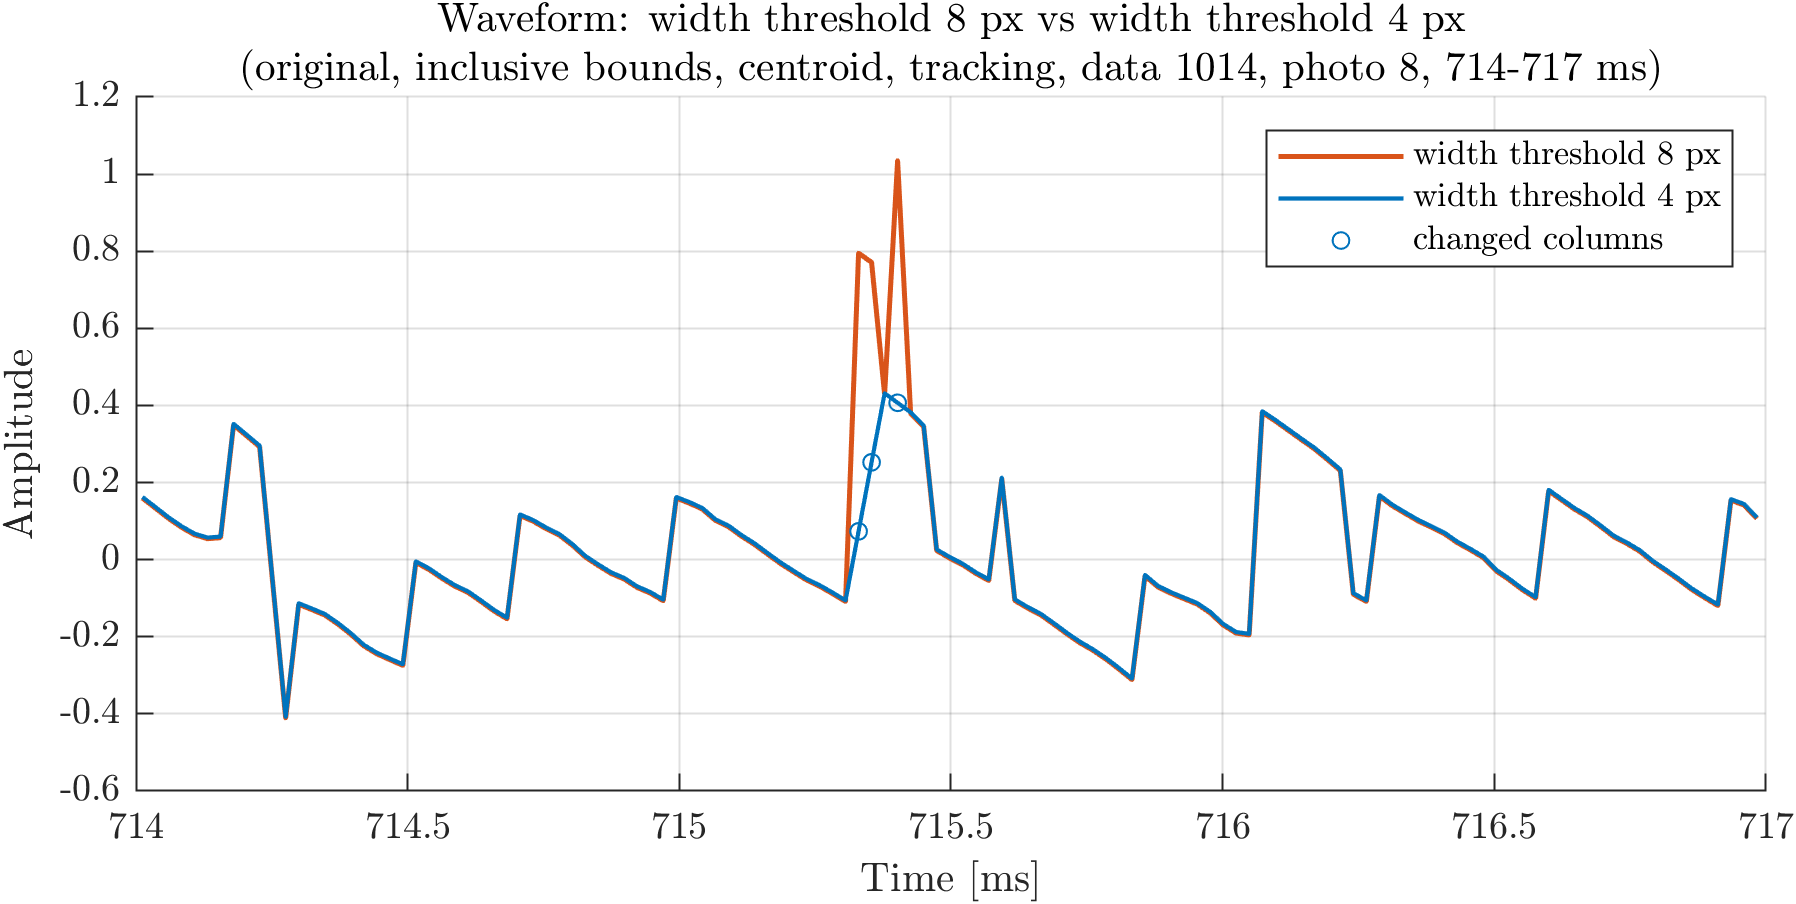
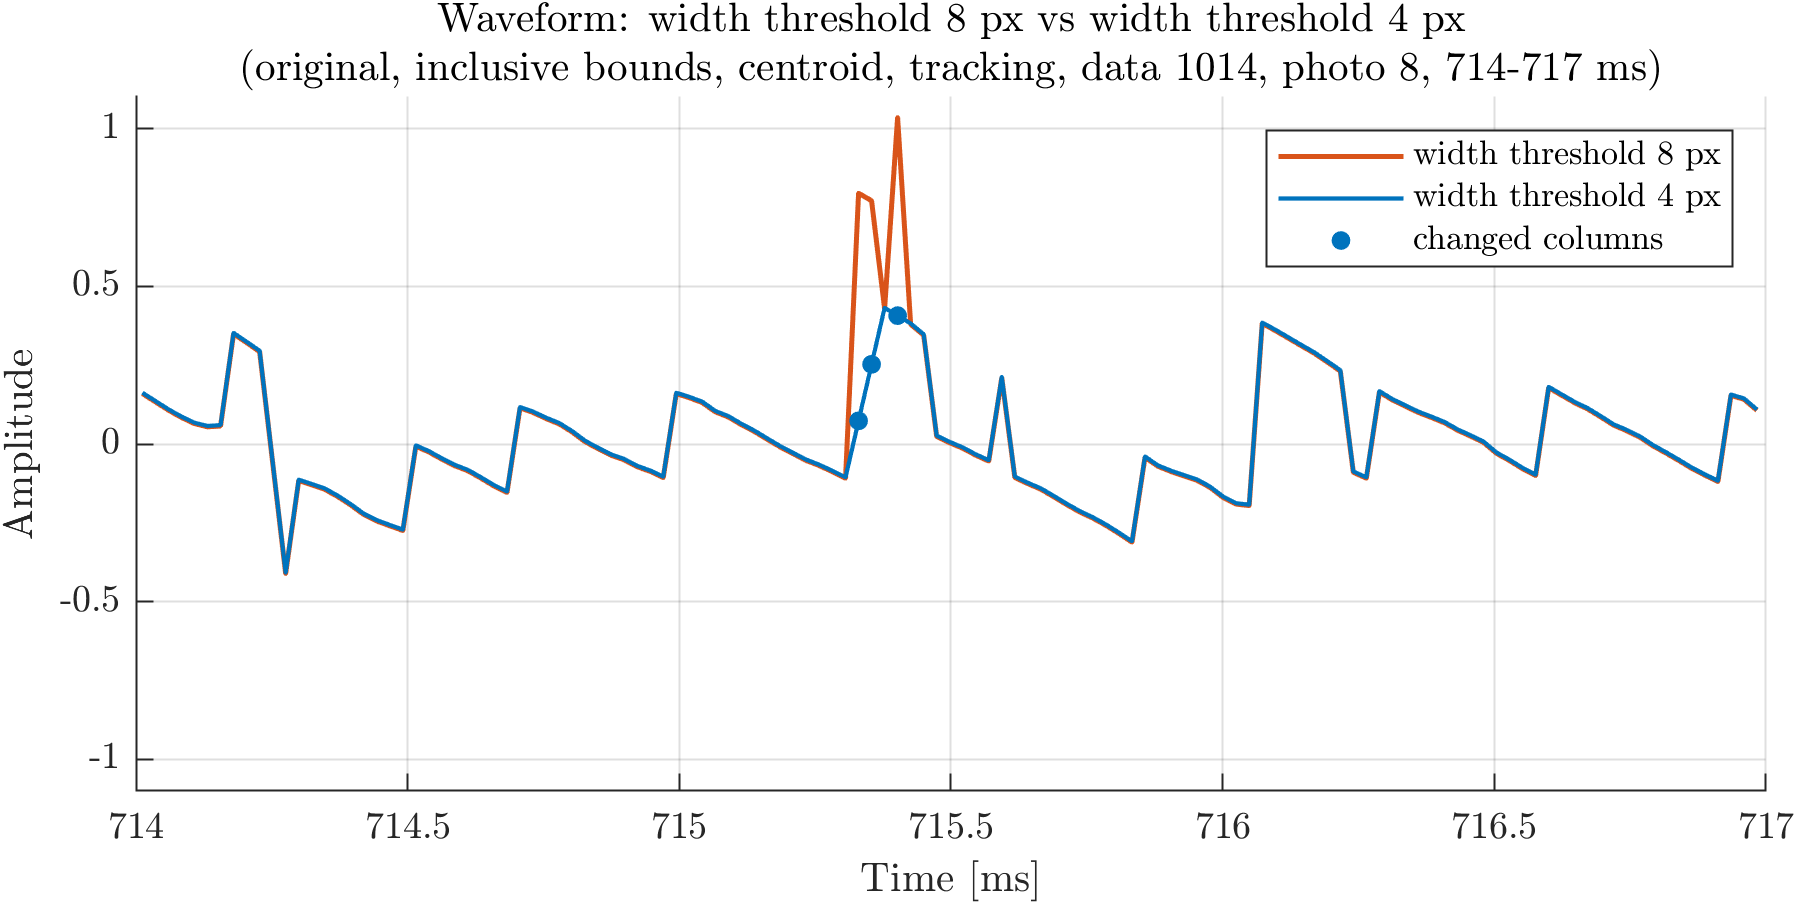
#35 の進捗報告の素材：M3・M6・M8 の図を新しいルールで作り直す
master の 12bd16b で決めた図のルール（実線、細い補助の線、塗りつぶした
点、凡例に何の値かを書く、波形の軸は0中心で対称）に合わせた。変えたのは
描き方と軸の範囲だけで、点と線の座標・凡例の値は前の図と同じ。

Agent: illustrator
Agent: main

diff --git a/scripts/progress/wideBottomOutlierWidthThresh.m b/scripts/progress/wideBottomOutlierWidthThresh.m
@@ -32,6 +32,9 @@
 % 2026/11/23作成
 % 2026/11/23 ユーザーの決定で、凡例の位置を "best" から右上（"northeast"）にそろえた。OVERWRITE=true で
 %            5枚を作り直した
+% 2026/11/26 ユーザーの決定（docs/rules/figures.md の「線と点」「軸の範囲」「凡例」）で、波形の図の、y が変わった
+%            列の丸を塗りつぶし、写真の境目を細い実線（LINE_WIDTH_AUX）にし、振幅の軸を 0 を中心に上下対称に
+%            した（AMP_LIM_STEP）。OVERWRITE=true で波形の2枚（M6・M8）だけを作り直した（MAKE_FIGS.crop=false）
 
 setDefaultIntrpr();
 proj = currentProject();
@@ -86,8 +89,18 @@ WAVE_MARGIN_MS = 1;     % 波形の、区間の両端から外への時間 [ms]
 MARKER_SIZE = 18;       % 切り出しの図の点の大きさ（すべての種類。評価の図は、すべての溝底点だけ 9）
 FONT_SIZE = 9;          % 目盛りの文字 [pt]。軸ラベル・タイトルはその 1.1 倍、凡例は 0.9 倍（MATLAB の既定）
 LEGEND_LOCATION = "northeast"; % 凡例の位置（描画領域の右上。評価の図は "best"）
+% 評価の図から変えた値（ユーザーの決定、2026-11-26。docs/rules/figures.md の「線と点」「軸の範囲」）
+LINE_WIDTH_BEFORE = 1.2; % 波形の、直す前の線の太さ [pt]（データの線。評価の図と同じ）
+LINE_WIDTH_AFTER = 1;    % 波形の、直した後の線の太さ [pt]（データの線。評価の図と同じ）
+LINE_WIDTH_AUX = 0.5;    % 波形の、写真の境目の線の太さ [pt]（補助の線。データの線より細い実線。評価の図は 1 pt の点線）
+WAVE_MARKER_SIZE = 4;    % 波形の、y が変わった列の丸の大きさ（plot の MarkerSize。塗りつぶす。評価の図は白抜き）
+AMP_LIM_STEP = 0.1;      % 振幅の軸は ±(区間の |振幅| の最大をこの刻みで切り上げた値。1 より小さければ 1)。
+                         % 評価の図は自動の範囲で、0 を中心にしていなかった
+MAKE_FIGS = struct("crop", true, "wave", true); % 作る図（crop は切り出し、wave は波形）。片方だけ作り直すときに使う
 STYLE = struct("figSizeCrop", [16 13], "figSizeWave", [16 8], "markerSize", MARKER_SIZE, ...
     "fontSize", FONT_SIZE, "legendLocation", LEGEND_LOCATION, ...
+    "lineWidthBefore", LINE_WIDTH_BEFORE, "lineWidthAfter", LINE_WIDTH_AFTER, "lineWidthAux", LINE_WIDTH_AUX, ...
+    "waveMarkerSize", WAVE_MARKER_SIZE, "ampLimStep", AMP_LIM_STEP, ...
     "colorAll", "cyan", "colorBefore", "yellow", "colorAfter", "magenta", ...
     "colorWaveBefore", [0.85 0.33 0.10], "colorWaveAfter", [0 0.45 0.74]);
 OVERWRITE = false;      % 同じ名前の図を上書きするか（作り直すときだけ true にする）
@@ -271,14 +284,16 @@ for iTarget = 1:numel(TARGETS)
     selB = [B.x(k(B.found(k))), B.y(k(B.found(k)))];
     selA = [A.x(k(A.found(k))), A.y(k(A.found(k)))];
     % タイトルは図の幅に収まらないので3行に分ける（書く情報と順は、名前と同じ。評価の図と同じ分け方）
-    fig = plotCrop(photos{i}, xr, yr, DET.before{i}.pks, selB, selA, [A.x(k), A.y(k)], ...
-        STYLE, LABEL, ["Groove on image: " + vsTitle, "(" + condTitle + ",", ...
-        partTitle + sprintf(", %d-%d ms)", msRange)]);
-    saveAndClose(fig, saveDir, "grooveOnImage_" + vsName + "_" + condName + partName + ...
-        sprintf("_%d-%dms", msRange), EXPECTED_NAMES, OVERWRITE);
+    if MAKE_FIGS.crop
+        fig = plotCrop(photos{i}, xr, yr, DET.before{i}.pks, selB, selA, [A.x(k), A.y(k)], ...
+            STYLE, LABEL, ["Groove on image: " + vsTitle, "(" + condTitle + ",", ...
+            partTitle + sprintf(", %d-%d ms)", msRange)]);
+        saveAndClose(fig, saveDir, "grooveOnImage_" + vsName + "_" + condName + partName + ...
+            sprintf("_%d-%dms", msRange), EXPECTED_NAMES, OVERWRITE);
+    end
 
     % 外れ値を含む区間と、LONG_RUN 列以上続く区間の波形
-    if c.numOutliers > 0 || c.numCols >= LONG_RUN
+    if MAKE_FIGS.wave && (c.numOutliers > 0 || c.numCols >= LONG_RUN)
         tr = [floor(c.tStartMs - WAVE_MARGIN_MS), ceil(c.tEndMs + WAVE_MARGIN_MS)];
         fig = plotWave(B, A, tr, EXACT, STYLE, LABEL, ["Waveform: " + vsTitle, ...
             "(" + condTitle + ", " + partTitle + sprintf(", %d-%d ms)", tr)]);
@@ -521,7 +536,9 @@ function fig = plotCrop(photo, xr, yr, pksAll, selB, selA, pathA, style, label, 
 end
 
 function fig = plotWave(B, A, tr, exact, style, label, titleLines)
-% 時間 tr [ms] の範囲の、直す前と後の振幅を重ねる。y が変わった列を印で示し、写真の境目に縦の点線を引く
+% 時間 tr [ms] の範囲の、直す前と後の振幅を重ねる。y が変わった列を塗りつぶした丸で示し、写真の境目に
+% 縦の細い実線を引く（補助の線はデータの線より細くする。docs/rules/figures.md「線と点」）。振幅の軸は 0 を中心に
+% 上下対称にする（同「軸の範囲」）
     k = find(B.timeMs >= tr(1) & B.timeMs <= tr(2));
     fig = createFigure([0 0 style.figSizeWave]);
     fig.Visible = "off";
@@ -531,20 +548,21 @@ function fig = plotWave(B, A, tr, exact, style, label, titleLines)
     hold(ax, "on");
     h = gobjects(0,1);
     names = strings(0,1);
-    h(end+1) = plot(ax, B.timeMs(k), B.amp(k), "-", Color=style.colorWaveBefore, LineWidth=1.2);
+    h(end+1) = plot(ax, B.timeMs(k), B.amp(k), "-", Color=style.colorWaveBefore, LineWidth=style.lineWidthBefore);
     names(end+1) = label.before;
-    h(end+1) = plot(ax, A.timeMs(k), A.amp(k), "-", Color=style.colorWaveAfter, LineWidth=1);
+    h(end+1) = plot(ax, A.timeMs(k), A.amp(k), "-", Color=style.colorWaveAfter, LineWidth=style.lineWidthAfter);
     names(end+1) = label.after;
     ch = k(abs(A.y(k) - B.y(k)) > exact);
     if ~isempty(ch)
-        h(end+1) = plot(ax, A.timeMs(ch), A.amp(ch), "o", Color=style.colorWaveAfter, MarkerSize=4);
+        h(end+1) = plot(ax, A.timeMs(ch), A.amp(ch), "o", Color=style.colorWaveAfter, MarkerSize=style.waveMarkerSize, ...
+            MarkerFaceColor=style.colorWaveAfter);
         names(end+1) = "changed columns";
     end
     edges = k(diff([B.photo(k); NaN]) ~= 0 | diff([B.groove(k); NaN]) ~= 0);
     edges = edges(edges < k(end));
     hb = gobjects(0,1);
     for e = edges'
-        hb(end+1) = xline(ax, (B.timeMs(e) + B.timeMs(e+1))/2, "k:", LineWidth=1); %#ok<AGROW>
+        hb(end+1) = xline(ax, (B.timeMs(e) + B.timeMs(e+1))/2, "k-", LineWidth=style.lineWidthAux); %#ok<AGROW>
     end
     if ~isempty(hb)
         h(end+1) = hb(1);
@@ -553,6 +571,8 @@ function fig = plotWave(B, A, tr, exact, style, label, titleLines)
     hold(ax, "off");
     grid(ax, "on");
     xlim(ax, tr);
+    ampLim = max(1, ceil(max(abs([B.amp(k); A.amp(k)])) / style.ampLimStep) * style.ampLimStep);
+    ylim(ax, [-ampLim ampLim]);
     xlabel(ax, "Time [ms]");
     ylabel(ax, "Amplitude");
     title(ax, titleLines);

diff --git a/scripts/progress/wideBottomOutlier.m b/scripts/progress/wideBottomOutlier.m
@@ -29,6 +29,9 @@
 % 2026/11/23 ユーザーの決定で、M3 の凡例を右上（2列）にし、暗さの軸を 0.35〜1.0（目盛りの間隔 0.05。
 %            D_TICK）にした。凡例が重心の破線の上の部分にかかるのは、ユーザーが受け入れた。OVERWRITE=true で
 %            M3 だけを作り直した（MAKE_FIGS.crop=false）
+% 2026/11/26 ユーザーの決定（docs/rules/figures.md の「線と点」「凡例」）で、M3 の重心の破線としきい値の点線を
+%            細い実線（LINE_WIDTH_AUX）にし、暗さの点を塗りつぶし、凡例に何の値かを書いた（centroid $y$ = …、
+%            $y$ range …, width … px）。OVERWRITE=true で M3 だけを作り直した（MAKE_FIGS.crop=false）
 
 setDefaultIntrpr();
 proj = currentProject();
@@ -61,9 +64,12 @@ D_LIM = [0.35 1.0];           % 暗さの軸の範囲。上限は、右上の凡
                               % 0.8 から上げた（ユーザーの決定、2026-11-23）
 D_TICK = 0.05;                % 暗さの軸の目盛りの間隔
 FIG_SIZE_PROFILE = [16 10];   % 図の大きさ [cm]
-LEGEND_LOCATION_PROFILE = "northeast"; % 凡例の位置（右上、2列。同じ色の折れ線と重心の破線が同じ行に並ぶ）。
-                                       % 凡例が重心の破線3本の上の部分にかかるのは、ユーザーが受け入れた
+LEGEND_LOCATION_PROFILE = "northeast"; % 凡例の位置（右上、2列。同じ色の折れ線と重心の線が同じ行に並ぶ）。
+                                       % 凡例が重心の線3本の上の部分にかかるのは、ユーザーが受け入れた
                                        % （ユーザーの決定、2026-11-23）
+LINE_WIDTH_DATA = 1;    % 暗さの折れ線の太さ [pt]（docs/rules/figures.md「線と点」のデータの線）
+LINE_WIDTH_AUX = 0.5;   % しきい値と重心の線の太さ [pt]（補助の線。データの線より細い実線）
+PROFILE_MARKER_SIZE = 4; % 暗さの点の大きさ（plot の MarkerSize。塗りつぶす）
 
 % 色（docs/groove-on-image.md と同じ。幅の広い選んだ点の色だけ、このスクリプトで決めた）
 COLOR_ALL = "cyan";                                  % すべての溝底点
@@ -191,7 +197,8 @@ disp(array2table([yProfile, darkness(yProfile,PROFILE_X)],'VariableNames',["y", 
 
 msRange = msRangeOf(PROFILE_X);
 styleProfile = struct("figSize",FIG_SIZE_PROFILE,"dLim",D_LIM,"dTick",D_TICK,"legendLocation",LEGEND_LOCATION_PROFILE, ...
-    "fontSize",FONT_SIZE);
+    "fontSize",FONT_SIZE,"lineWidthData",LINE_WIDTH_DATA,"lineWidthAux",LINE_WIDTH_AUX, ...
+    "markerSize",PROFILE_MARKER_SIZE);
 if MAKE_FIGS.profile
     fig = plotProfiles(darkness,yProfile,info,cond.dThresh,styleProfile, ...
         ["Darkness profile", "(" + condTitle + ", data " + DATE_MMDD + ", photo " + I_IMG + sprintf(", %d-%d ms)",msRange)]);
@@ -283,8 +290,9 @@ function fig = plotCrop(photoImg,xRange,yRange,det,pksNarrow,pksWide,style,label
 end
 
 function fig = plotProfiles(darkness,yProfile,info,dThresh,style,titleLines)
-% info の列ごとに、yProfile の行の暗さを折れ線で描き、選んだ溝底点（重心）の y に、同じ色の破線を引く。
-% しきい値 dThresh に点線を引く。凡例は、左の列に暗さの分布（溝底区間と幅）としきい値、右の列に重心を並べる
+% info の列ごとに、yProfile の行の暗さを折れ線（点は塗りつぶす）で描き、選んだ溝底点（重心）の y に、同じ色の
+% 細い実線を引く。しきい値 dThresh に黒の細い実線を引く（補助の線はデータの線より細くする。docs/rules/figures.md
+% 「線と点」）。凡例は、左の列に暗さの分布（溝底区間と幅）としきい値、右の列に重心を並べる
     fig = createFigure([0 0 style.figSize]);
     tl = tiledlayout(fig,1,1,Padding="compact");
     ax = nexttile(tl);
@@ -296,10 +304,11 @@ function fig = plotProfiles(darkness,yProfile,info,dThresh,style,titleLines)
     hold(ax,"on");
     for k = 1:numCols
         c = colors(k,:);
-        hLine(k) = plot(ax,yProfile,darkness(yProfile,info.x(k)),"-o",Color=c,LineWidth=1,MarkerSize=4);
-        hCentroid(k) = xline(ax,info.centroid(k),"--",Color=c,LineWidth=1);
+        hLine(k) = plot(ax,yProfile,darkness(yProfile,info.x(k)),"-o",Color=c,LineWidth=style.lineWidthData, ...
+            MarkerSize=style.markerSize,MarkerFaceColor=c);
+        hCentroid(k) = xline(ax,info.centroid(k),"-",Color=c,LineWidth=style.lineWidthAux);
     end
-    hThresh = yline(ax,dThresh,"k:",LineWidth=1);
+    hThresh = yline(ax,dThresh,"k-",LineWidth=style.lineWidthAux);
     hold(ax,"off");
     grid(ax,"on");
     xlim(ax,yProfile([1 end]));
@@ -309,8 +318,8 @@ function fig = plotProfiles(darkness,yProfile,info,dThresh,style,titleLines)
     xlabel(ax,"$y$ [px]");
     ylabel(ax,"Darkness $D$");
     title(ax,titleLines);
-    lineNames = compose("$x$ = %d (range %d-%d, width %d)",info.x,info.rangeStart,info.rangeEnd,info.width);
-    centroidNames = compose("centroid %.2f",info.centroid);
+    lineNames = compose("$x$ = %d ($y$ range %d-%d, width %d px)",info.x,info.rangeStart,info.rangeEnd,info.width);
+    centroidNames = compose("centroid $y$ = %.2f",info.centroid);
     lgd = legend(ax,[hLine; hThresh; hCentroid], ...
         [lineNames; "$D_\mathrm{th}$ = " + dThresh; centroidNames], ...
         Location=style.legendLocation,NumColumns=2,FontSize=style.fontSize*0.9);

diff --git a/docs/issues/closed/35-wide-bottom-outliers/README.md b/docs/issues/closed/35-wide-bottom-outliers/README.md
@@ -274,6 +274,8 @@
 | 2026-11-24 | main | 採用した改善案を master で反映した（このブランチには入れていない）。振り返りの5章に決定と、反映したときに案に足したことを書き、状態を「完了」にした | `1497c05`（master）、[`progress-material-trial.md`](./progress-material-trial.md) |
 | 2026-11-26 | ユーザー | **決定** 新しい図のルール（`docs/rules/figures.md` の「線と点」「軸の範囲」、凡例に数だけを書かない）と素材ファイルの新しいひな型（図の表に小さい画像とファイル名、フォルダは本文、数式は LaTeX）を、モックアップを見て確定した（master の `12bd16b`）。それに合わせて、この素材ファイルと図を直す。<br>`closed/` の中身を変えない決まりの例外として、素材ファイル・図・図のスクリプトと、この見出しを直すことを認めた。作業ブランチは `claude/35-progress-material-restyle`（ローカルの master の `12bd16b` から） | — |
 | 2026-11-26 | main | 素材ファイルの図の表8行を新しいひな型に直し、M3 の数式を LaTeX の書き方にした。ルールに合わない M3・M6・M8 の状態を「依頼」に戻し、直しの依頼を書いた | [`progress-material.md`](./progress-material.md) |
+| 2026-11-26 | illustrator | M3・M6・M8 の図3枚を、新しい図のルールで作り直した（上書き）。M3 は重心としきい値の線を 0.5 pt の実線にし、点を塗りつぶし、凡例に何の値かを書いた。M6・M8 の波形は、y が変わった列の丸を塗りつぶし、振幅の軸を 0 を中心に上下対称（±1.1、±1.3）にした。<br>点と線の座標・凡例の値は、前の図と同じことを fig で確かめた。描き方に触れた説明の文も直した | [`progress-material.md`](./progress-material.md)、`scripts/progress/wideBottomOutlier.m`、`scripts/progress/wideBottomOutlierWidthThresh.m`、`results/figures/progress/grooveBottomDetection/`（図3枚） |
+| 2026-11-26 | main | 書いてよい範囲の外が変わっていないことと、図3枚を確かめた | — |
 ### 振り返り — 完了
 
 | 日付 | 担当 | 内容 | 成果物 |
